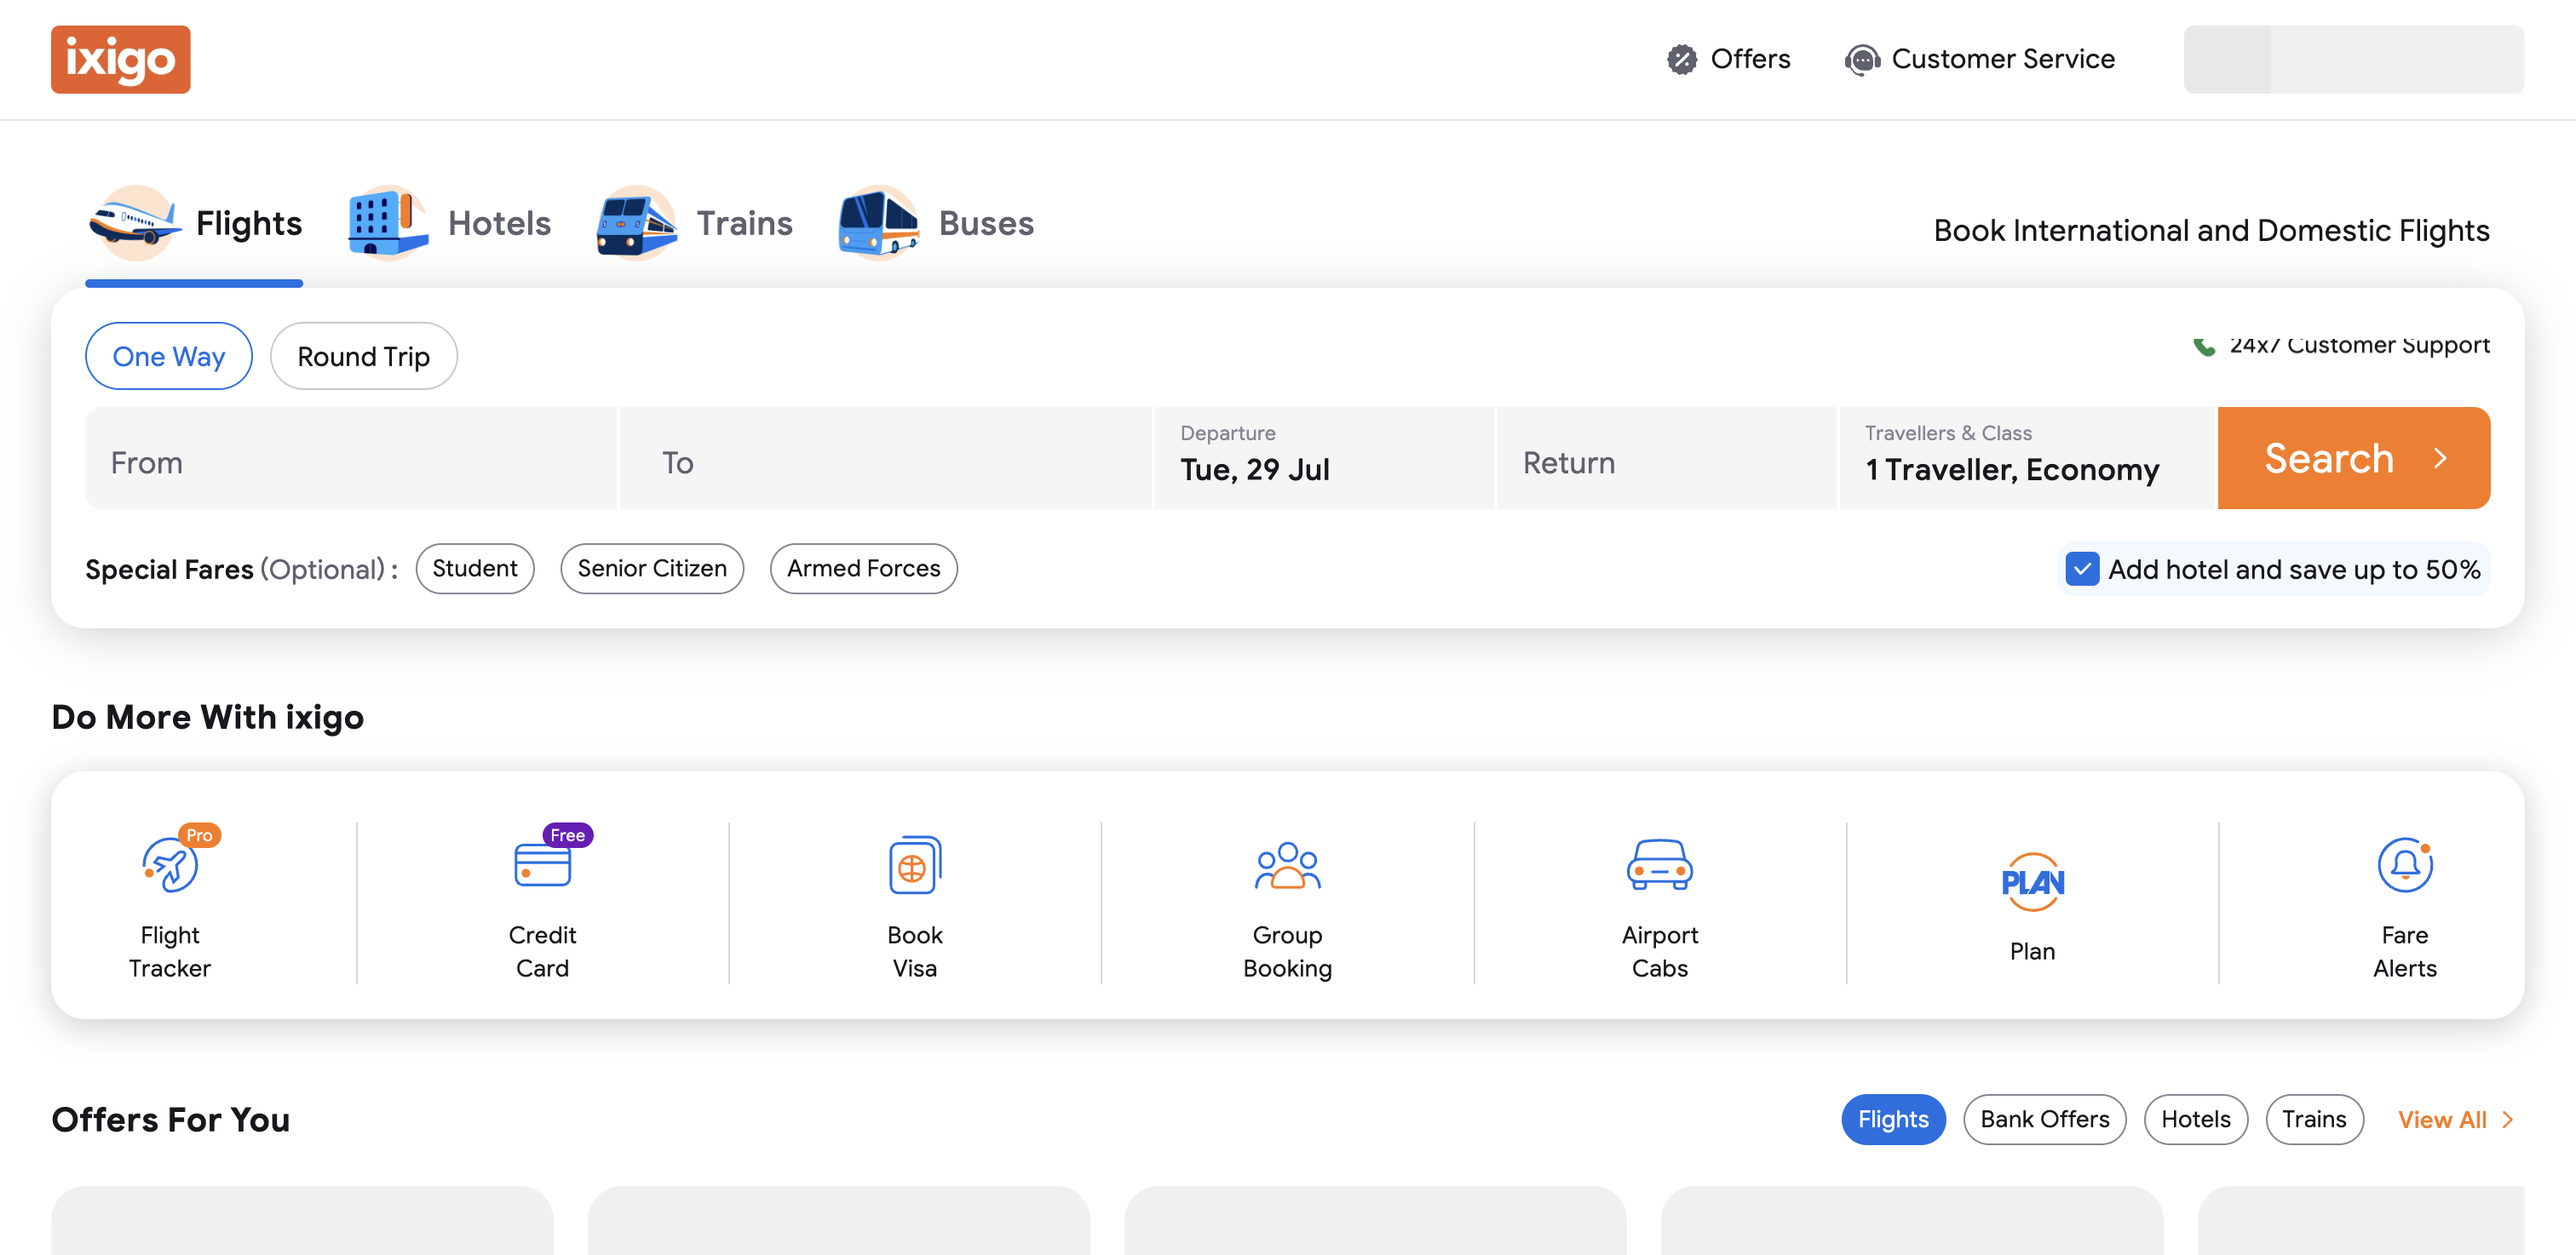
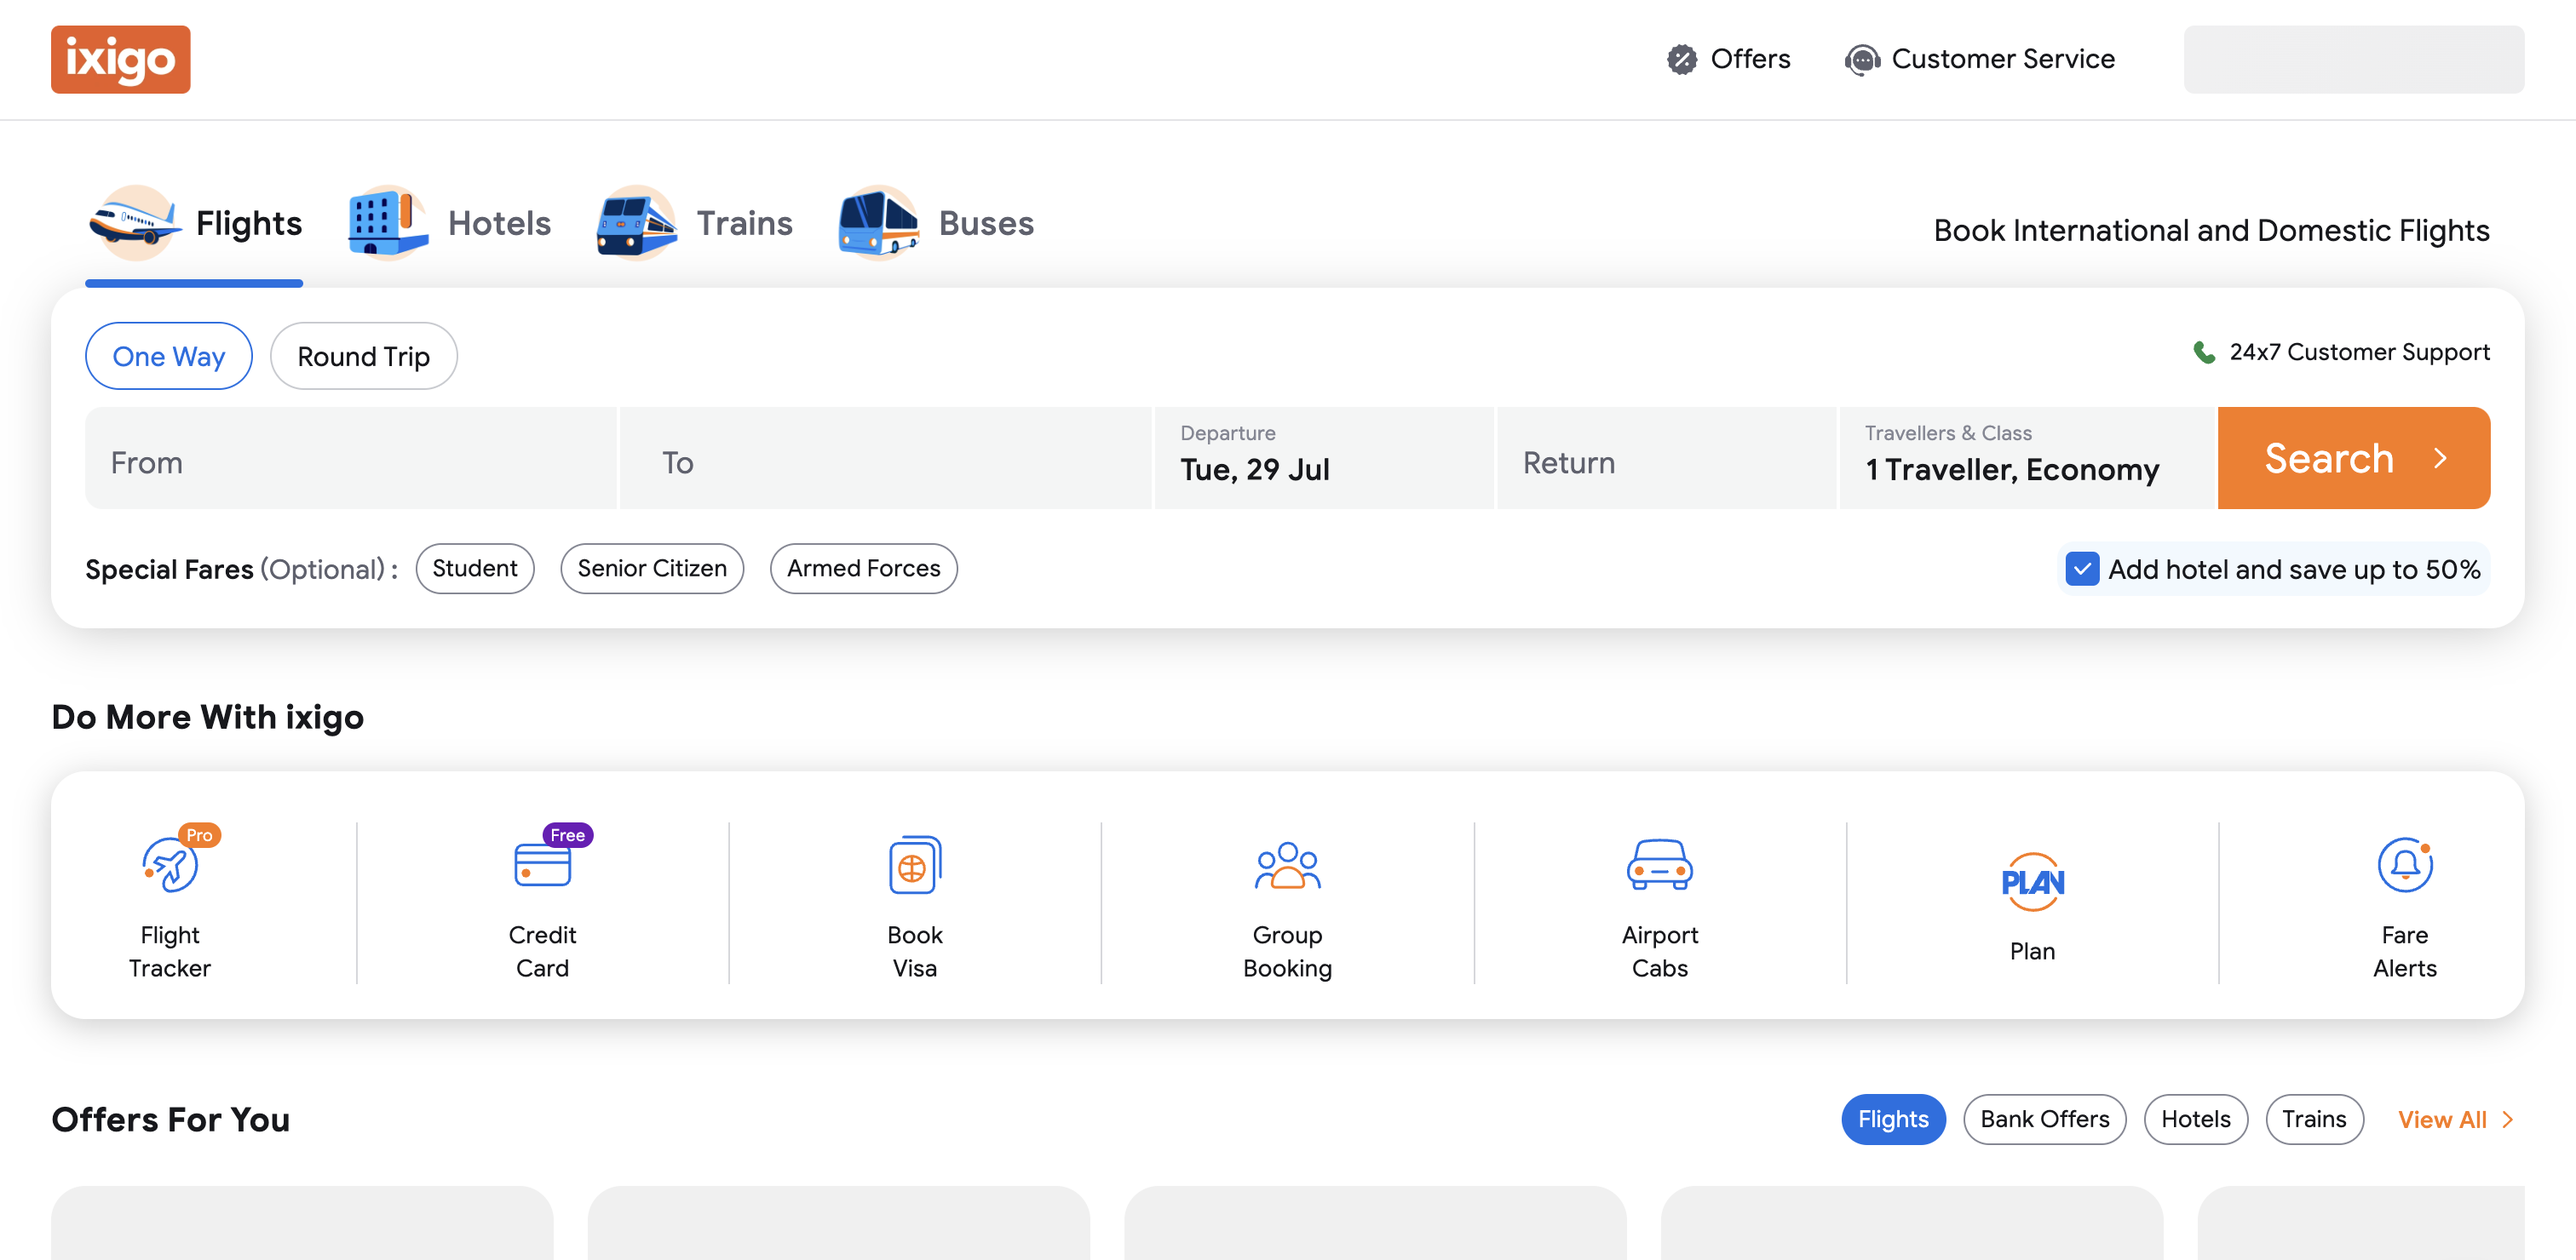
Initial commit

diff --git a/src/test/java/org/utils/TestNGListener.java b/src/test/java/org/utils/TestNGListener.java
@@ -1,0 +1,68 @@
+package org.utils;
+
+import java.io.File;
+import java.io.IOException;
+import java.text.SimpleDateFormat;
+import java.util.Date;
+import java.util.Properties;
+
+import org.apache.commons.io.FileUtils;
+import org.testng.ITestContext;
+import org.testng.ITestListener;
+import org.testng.ITestResult;
+import com.aventstack.extentreports.ExtentReports;
+import com.aventstack.extentreports.ExtentTest;
+import com.aventstack.extentreports.Status;
+import com.aventstack.extentreports.reporter.ExtentSparkReporter;
+import com.aventstack.extentreports.reporter.configuration.Theme;
+
+public class TestNGListener implements ITestListener{
+
+    ExtentReports extentrep;
+    public static ThreadLocal<ExtentTest> test = new ThreadLocal<ExtentTest>();
+    String resultFolder;
+    String reportpath = System.getProperty("user.dir")  + "\\test-output\\HtmlReport\\ExtentReport.html";
+
+    @Override
+    public void onStart(ITestContext context) {
+        ExtentSparkReporter sparkrep = new ExtentSparkReporter(reportpath);
+        sparkrep.config().setReportName("Test Report");
+        sparkrep.config().setTheme(Theme.DARK);
+        extentrep = new ExtentReports();
+        extentrep.attachReporter(sparkrep);
+    }
+
+    @Override
+    public void onTestStart(ITestResult result) {
+        test.set(extentrep.createTest(result.getMethod().getMethodName()));
+    }
+
+    @Override
+    public void onTestSuccess(ITestResult result) {
+        test.get().log(Status.PASS, "Test Passed : " + result.getMethod().getMethodName());
+        System.out.println("Test Passed : " + result.getMethod().getMethodName());
+    }
+
+    @Override
+    public void onTestFailure(ITestResult result) {
+        test.get().log(Status.FAIL, "Test Failed : " + result.getMethod().getMethodName());
+        System.out.println("Test Failed : " + result.getMethod().getMethodName());
+    }
+
+    @Override
+    public void onFinish(ITestContext context) {
+        copyreports();
+        extentrep.flush();
+    }
+
+    private void copyreports() {
+        resultFolder = System.getProperty("user.dir") + "\\test-output\\HtmlReport\\ExtentReport" + new SimpleDateFormat("ddMMhhmmss").format(new Date()) + ".html";
+        File source = new File(reportpath);
+        File dest = new File(resultFolder);
+        try {
+            FileUtils.copyFile(source, dest);
+        } catch (IOException e) {
+            e.printStackTrace();
+        }
+    }
+}

diff --git a/src/test/java/org/pages/loginPage.java b/src/test/java/org/pages/loginPage.java
@@ -38,6 +38,7 @@ public class loginPage extends loginPageObjects {
 //        linkFlights.click();
 //        driver.findElement(By.xpath("/*[text()='Flights']//parent::a"));
         javaScriptExe(linkFlights);
+        addStepLog("clicked on flight");
 //        waits(linkFlights);
 
     }
@@ -45,6 +46,7 @@ public class loginPage extends loginPageObjects {
     public void oneWay() {
 //        linkOneway.click();
         javaScriptExe(linkOneway);
+        addStepLog("clicked on oneWay");
 //        waits(linkOneway);
     }
 
@@ -53,8 +55,9 @@ public class loginPage extends loginPageObjects {
 //        inputFrom.sendKeys(city);
 //        buttonCity.click();
         javaScriptExe(buttonFrom);
-        javaScriptExe(buttonFrom,"chennai");
+        javaScriptExe(buttonFrom,city);
         sleep(300);
+        addStepLog("Enter text in textbox as "+city);
 //        buttonFrom.sendKeys(city);
 //        actions("chennai", inputFrom);
         javaScriptExe(buttonCity);
@@ -66,9 +69,10 @@ public class loginPage extends loginPageObjects {
         //buttonTo.click();
         //inputTo.sendKeys(city);
         //buttonCityy.click();
-        javaScriptExe(buttonTo);
+        javaScriptExe(buttonTo, city);
 //        javaScriptExe("delhi", buttonTo);
         sleep(10000);
+        addStepLog("Enter text in textbox as "+city);
 //        buttonTo.sendKeys(city);
 //        actions("delhi", inputTo);
 //        javaScriptExe(buttonCityy);
@@ -85,6 +89,7 @@ public class loginPage extends loginPageObjects {
         sleep(3000);
         javaScriptExe(buttonAdult);
         javaScriptExe(buttonDone);
+        addStepLog("clicked on travelers");
 
 
     }
@@ -96,11 +101,12 @@ public class loginPage extends loginPageObjects {
         List<String> windowHandlesList = new ArrayList<>(allWindowHandles);
         driver.switchTo().window(windowHandlesList.get(1));
         sleep(15000);
+        addStepLog("clicked o search");
     }
 
     public void linkRoundTrip() throws InterruptedException {
         javaScriptExe(buttonDate);
-
+        addStepLog("clicked on roundTrip");
     }
 
 

diff --git a/src/test/java/org/pages/basePage.java b/src/test/java/org/pages/basePage.java
@@ -1,5 +1,6 @@
 package org.pages;
 
+import com.aventstack.extentreports.Status;
 import org.openqa.selenium.By;
 import org.openqa.selenium.JavascriptExecutor;
 import org.openqa.selenium.Keys;
@@ -12,6 +13,7 @@ import org.utils.driverManager;
 
 import java.time.Duration;
 
+import static org.utils.TestNGListener.test;
 import static org.utils.driverManager.driver;
 
 public class basePage {
@@ -54,7 +56,11 @@ public class basePage {
         e.click();
         a.keyDown(Keys.CONTROL).sendKeys(s).keyUp(Keys.CONTROL).perform();
 
+    }
 
+    public void addStepLog(String log) {
+        test.get().log(Status.INFO, log);
+        System.out.println(log);
     }
 
 }
